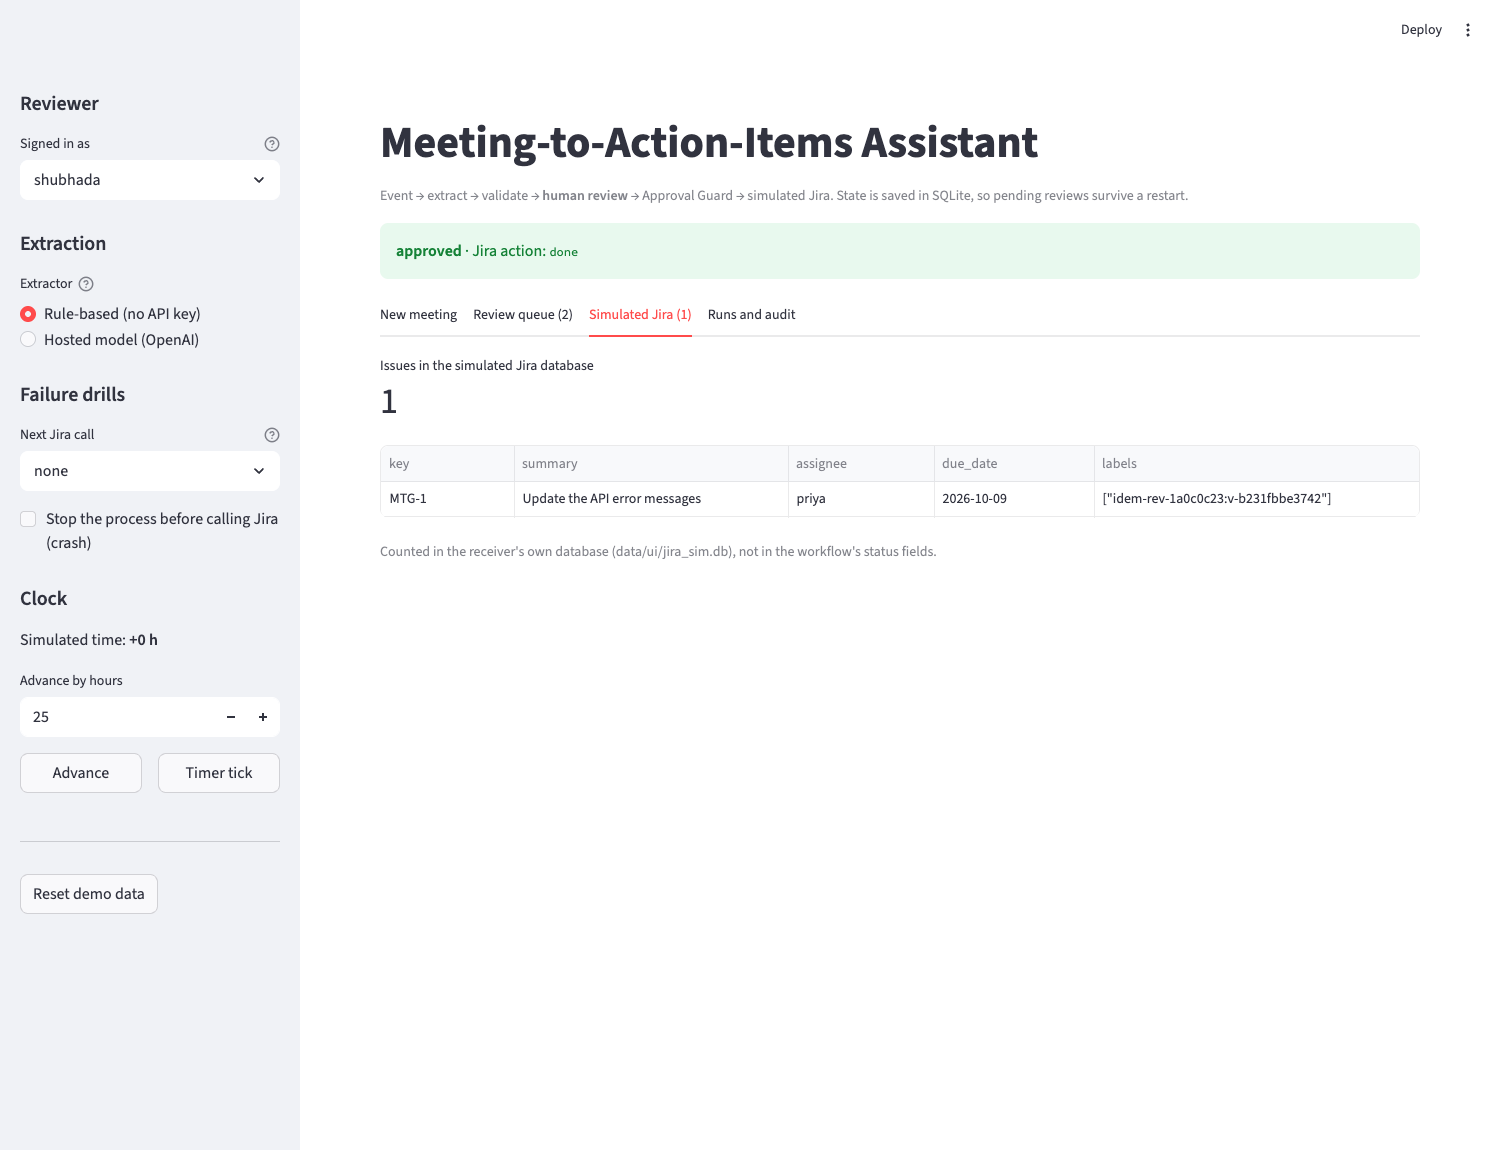
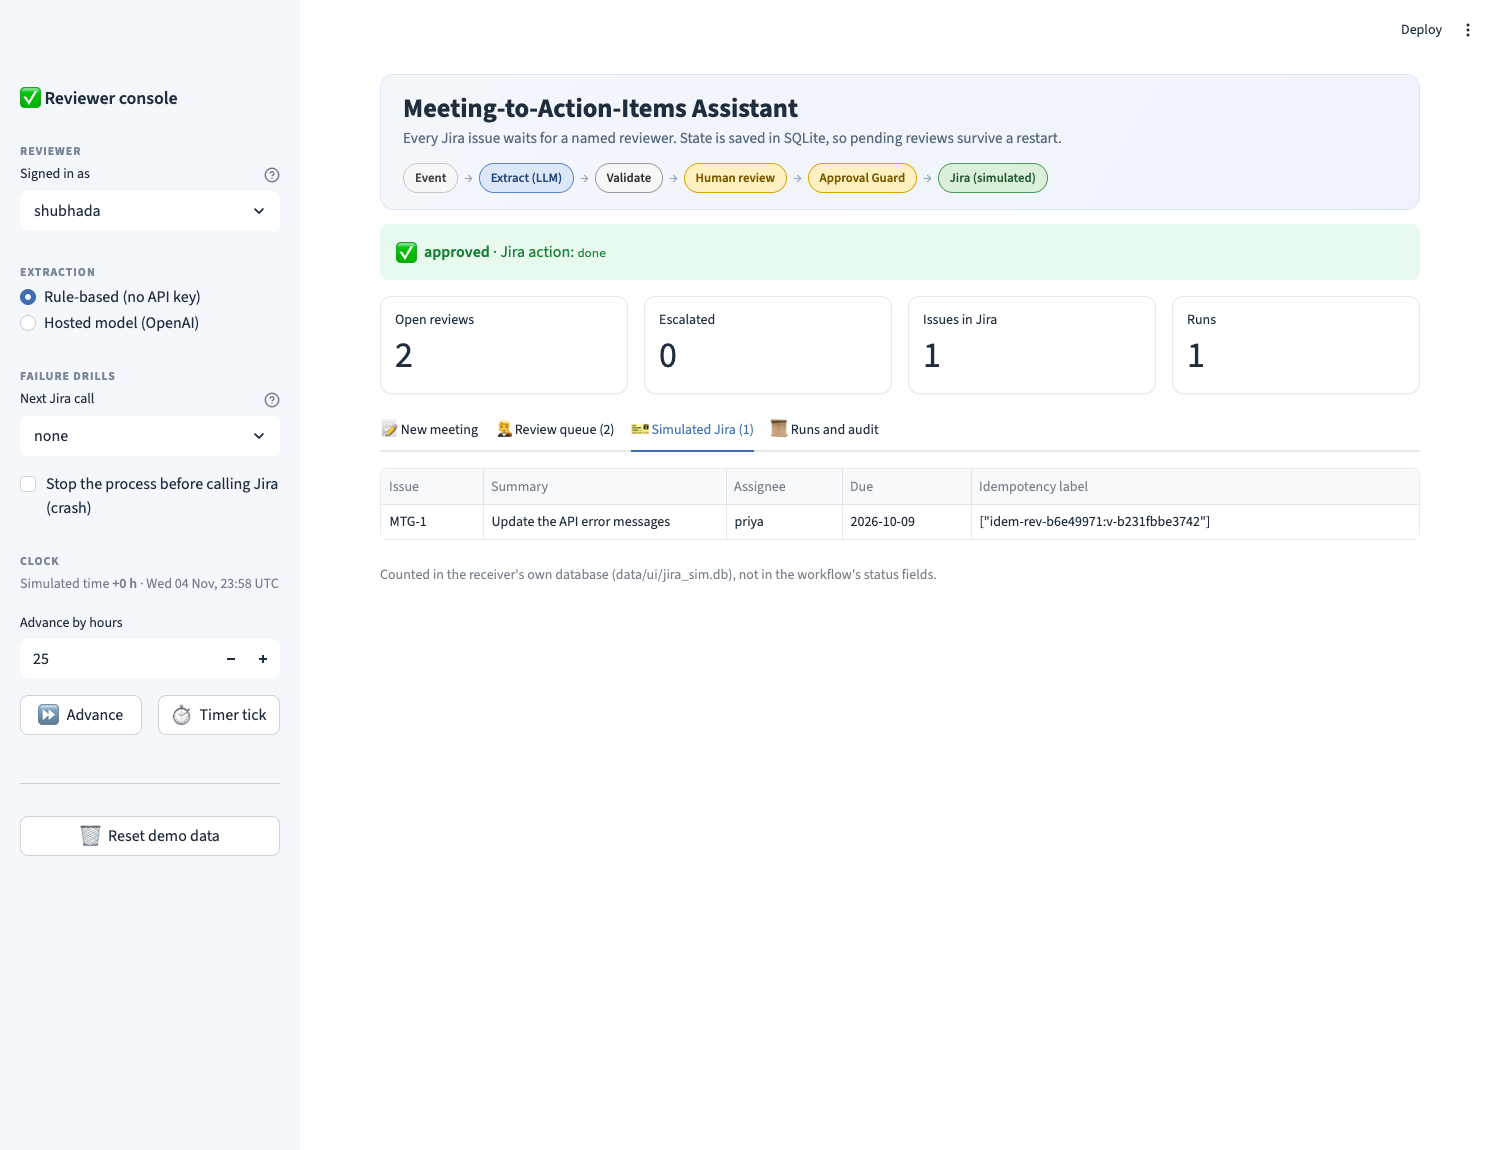
Restyle the reviewer app
Theme in .streamlit/config.toml with the architecture diagram's colours;
pipeline header, summary metrics, review cards with PASS/FLAG and status
pills, a field grid, quoted evidence and a separate decision panel.
Behaviour is unchanged; all 40 tests pass. Screenshots refreshed.

diff --git a/app.py b/app.py
@@ -9,6 +9,7 @@ Each page load calls resume(), as a restarted service would.
 """
 from __future__ import annotations
 
+import html
 import os
 import shutil
 import uuid
@@ -27,13 +28,55 @@ load_dotenv()
 DATA_DIR = Path(os.getenv("MEETING_APP_DATA", "data/ui"))
 SAMPLE = ("Priya will update the API error messages by Friday. Someone should clean up the onboarding notes soon. "
           "Marco will review the release checklist on Monday.")
+PEOPLE = sorted(DIRECTORY)
+
+# Colours match the architecture diagram: people/approval amber, AI blue, code grey, Jira green.
+CSS = """
+<style>
+.block-container {padding-top: 3.6rem; max-width: 1250px;}
+.hero {background: linear-gradient(120deg, #F4F7FC 0%, #EEF3FB 100%); border: 1px solid #DCE6F5;
+       border-radius: 14px; padding: 18px 22px 16px; margin-bottom: 14px;}
+.hero h1 {font-size: 1.65rem; margin: 0 0 2px; color: #1F2D3D; padding: 0;}
+.hero p {margin: 0 0 12px; color: #5A6B80; font-size: 0.95rem;}
+.flow {display: flex; flex-wrap: wrap; gap: 6px; align-items: center;}
+.step {padding: 4px 11px; border-radius: 999px; font-size: 0.8rem; font-weight: 600; border: 1px solid;}
+.arrow {color: #9AA7B8; font-size: 0.85rem;}
+.s-event {background:#F7F7F7; border-color:#C9C9C9; color:#444;}
+.s-ai {background:#DCE8FA; border-color:#5B84C4; color:#24467A;}
+.s-code {background:#F7F7F7; border-color:#999; color:#333;}
+.s-human {background:#FFF0C2; border-color:#D9A400; color:#7A5B00;}
+.s-jira {background:#DCEFDC; border-color:#4C9A5B; color:#245C31;}
+.pill {display:inline-block; padding: 2px 10px; border-radius: 999px; font-size: 0.75rem; font-weight: 700;
+       letter-spacing: .02em; margin-right: 6px; vertical-align: middle;}
+.p-pass {background:#E3F4E5; color:#1E6B2E;} .p-flag {background:#FDEBD3; color:#8A4B00;}
+.p-pending {background:#E7EEF9; color:#2F5590;} .p-escalated {background:#FDE2E1; color:#9B2C2C;}
+.card-title {font-size: 1.12rem; font-weight: 700; color:#1F2D3D; margin: 0 0 8px;}
+.grid {display: grid; grid-template-columns: repeat(3, minmax(0, 1fr)); gap: 8px; margin: 10px 0;}
+.field {background:#F8FAFD; border:1px solid #E3E9F2; border-radius: 9px; padding: 7px 10px;}
+.field .k {font-size: 0.7rem; text-transform: uppercase; letter-spacing: .05em; color:#7A8799;}
+.field .v {font-size: 0.9rem; font-weight: 600; color:#1F2D3D; font-family: ui-monospace, Menlo, monospace;
+           overflow-wrap: anywhere;}
+.field .v.missing {color:#B54708;}
+.quote {border-left: 3px solid #5B84C4; background:#F4F7FC; padding: 8px 12px; border-radius: 0 8px 8px 0;
+        color:#2B3A4D; font-style: italic; margin-bottom: 10px;}
+.conflict {background:#FFF6E5; border:1px solid #F5D08A; color:#7A4E00; border-radius: 8px; padding: 7px 11px;
+           font-size: 0.88rem; margin-bottom: 10px;}
+.rules {font-size: 0.83rem; color:#4A5A6E; margin: 0; padding-left: 1.1rem;}
+.meta {font-size: 0.86rem; color:#4A5A6E; line-height: 1.7; margin-bottom: 4px;}
+.side-h {font-size: 0.74rem; text-transform: uppercase; letter-spacing: .08em; color:#7A8799; font-weight: 700;
+         margin: 16px 0 2px;}
+div[data-testid="stMetric"] {background:#FFFFFF; border:1px solid #E3E9F2; border-radius: 12px; padding: 10px 14px;
+                             box-shadow: 0 1px 2px rgba(31,45,61,.05);}
+</style>
+"""
 
 st.set_page_config(page_title="Meeting-to-Action-Items Assistant", page_icon="✅", layout="wide")
+st.markdown(CSS, unsafe_allow_html=True)
 ss = st.session_state
 ss.setdefault("clock_offset_h", 0)
+ss.setdefault("messages", [])
 if ss.pop("drill_used", False):  # a fault or crash applies to one event only
     ss["fault_choice"], ss["crash"] = "none", False
-ss.setdefault("messages", [])
 
 
 def workflow(fault: str | None = None) -> Workflow:
@@ -63,67 +106,104 @@ def show_result(result: dict) -> None:
     text = f"**{outcome}**" + (f" — {result['detail']}" if result.get("detail") else "")
     if actions:
         text += "  ·  Jira action: " + ", ".join(f"`{status}`" for status in actions.values())
-    good = outcome in ("run_created", "approved", "rejected", "tick")
-    (st.success if good else st.warning)(text)
+    if outcome in ("run_created", "approved", "rejected", "tick"):
+        st.success(text, icon="✅")
+    else:
+        st.warning(text, icon="⚠")
+
+
+def pill(text: str) -> str:
+    return f'<span class="pill p-{text.lower()}">{html.escape(text)}</span>'
+
+
+def field(label: str, value: str | None) -> str:
+    shown = html.escape(value) if value else "UNRESOLVED"
+    return (f'<div class="field"><div class="k">{label}</div>'
+            f'<div class="v{"" if value else " missing"}">{shown}</div></div>')
+
+
+def side_heading(text: str) -> None:
+    st.markdown(f'<div class="side-h">{text}</div>', unsafe_allow_html=True)
 
 
 # Every page load is a process start: finish or reconcile actions left open.
 recovered = workflow().resume()
 if recovered:
-    st.toast(f"Restart recovery finished {len(recovered)} open action(s): {', '.join(recovered.values())}")
-
-st.title("Meeting-to-Action-Items Assistant")
-st.caption("Event → extract → validate → **human review** → Approval Guard → simulated Jira. "
-           "State is saved in SQLite, so pending reviews survive a restart.")
+    st.toast(f"Restart recovery finished {len(recovered)} open action(s): {', '.join(recovered.values())}", icon="🔁")
 
 # ------------------------------------------------------------------ sidebar
 with st.sidebar:
-    st.header("Reviewer")
-    reviewer = st.selectbox("Signed in as", sorted(DIRECTORY), index=sorted(DIRECTORY).index("shubhada"), key="reviewer",
-                            help=f"Organizer reviews first; {PROJECT_LEAD} (project lead) may decide after escalation.")
-    st.header("Extraction")
+    st.markdown("### ✅ Reviewer console")
+    side_heading("Reviewer")
+    reviewer = st.selectbox("Signed in as", PEOPLE, index=PEOPLE.index("shubhada"), key="reviewer",
+                            help=f"The organizer reviews first; {PROJECT_LEAD} (project lead) may decide after escalation.")
+    side_heading("Extraction")
     st.radio("Extractor", ["Rule-based (no API key)", "Hosted model (OpenAI)"], key="extractor",
-             disabled=not os.getenv("OPENAI_API_KEY"), help="The hosted option needs OPENAI_API_KEY in .env.")
+             disabled=not os.getenv("OPENAI_API_KEY"), help="The hosted option needs OPENAI_API_KEY in .env.",
+             label_visibility="collapsed")
 
-    st.header("Failure drills")
+    side_heading("Failure drills")
     st.selectbox("Next Jira call", ["none", "unavailable", "lose_confirmation"], key="fault_choice",
                  help="unavailable = 503, nothing created. lose_confirmation = issue created, reply lost.")
     st.checkbox("Stop the process before calling Jira (crash)", key="crash")
 
-    st.header("Clock")
-    st.write(f"Simulated time: **+{ss['clock_offset_h']} h**")
+    side_heading("Clock")
+    now = datetime.now(timezone.utc) + timedelta(hours=ss["clock_offset_h"])
+    st.caption(f"Simulated time **+{ss['clock_offset_h']} h** · {now:%a %d %b, %H:%M} UTC")
     hours = st.number_input("Advance by hours", min_value=1, max_value=200, value=25, step=1)
     c1, c2 = st.columns(2)
-    if c1.button("Advance", width="stretch"):
+    if c1.button("Advance", icon="⏩", width="stretch"):
         ss["clock_offset_h"] += int(hours)
         st.rerun()
-    if c2.button("Timer tick", key="tick", width="stretch"):
+    if c2.button("Timer tick", key="tick", icon="⏱", width="stretch"):
         send({"event_id": f"tick-{uuid.uuid4().hex[:10]}", "type": "timer.tick", "payload": {}})
         st.rerun()
 
     st.divider()
-    if st.button("Reset demo data", type="secondary"):
+    if st.button("Reset demo data", icon="🗑", type="secondary", width="stretch"):
         shutil.rmtree(DATA_DIR, ignore_errors=True)
         for key in ("clock_offset_h", "messages", "last_transcript_event"):
             ss.pop(key, None)
         st.rerun()
 
+# ------------------------------------------------------------------ header
+st.markdown("""
+<div class="hero">
+  <h1>Meeting-to-Action-Items Assistant</h1>
+  <p>Every Jira issue waits for a named reviewer. State is saved in SQLite, so pending reviews survive a restart.</p>
+  <div class="flow">
+    <span class="step s-event">Event</span><span class="arrow">→</span>
+    <span class="step s-ai">Extract (LLM)</span><span class="arrow">→</span>
+    <span class="step s-code">Validate</span><span class="arrow">→</span>
+    <span class="step s-human">Human review</span><span class="arrow">→</span>
+    <span class="step s-human">Approval Guard</span><span class="arrow">→</span>
+    <span class="step s-jira">Jira (simulated)</span>
+  </div>
+</div>""", unsafe_allow_html=True)
+
 if ss["messages"]:
     show_result(ss["messages"][-1])
 
 wf = workflow()
-tab_new, tab_queue, tab_jira, tab_runs = st.tabs(["New meeting", f"Review queue ({len(wf.open_reviews())})",
-                                                  f"Simulated Jira ({wf.jira.count()})", "Runs and audit"])
+open_reviews = wf.open_reviews()
+m1, m2, m3, m4 = st.columns(4)
+m1.metric("Open reviews", len(open_reviews))
+m2.metric("Escalated", sum(r["status"] == "escalated" for r in open_reviews))
+m3.metric("Issues in Jira", wf.jira.count())
+m4.metric("Runs", wf.store.one("SELECT COUNT(*) AS n FROM runs")["n"])
+
+tab_new, tab_queue, tab_jira, tab_runs = st.tabs(["📝 New meeting", f"🧑⚖ Review queue ({len(open_reviews)})",
+                                                  f"🎫 Simulated Jira ({wf.jira.count()})", "📜 Runs and audit"])
 
 # ------------------------------------------------------------- new meeting
 with tab_new:
-    with st.form("new_meeting"):
+    with st.form("new_meeting", border=True):
         c1, c2, c3 = st.columns(3)
         meeting_id = c1.text_input("Meeting ID", value="sprint-2026-10-08")
         meeting_date = c2.date_input("Meeting date", value=date(2026, 10, 8))
-        organizer = c3.selectbox("Organizer (reviewer)", sorted(DIRECTORY), index=sorted(DIRECTORY).index("shubhada"))
-        transcript = st.text_area("Transcript", value=SAMPLE, height=140)
-        submitted = st.form_submit_button("Send transcript event", type="primary")
+        organizer = c3.selectbox("Organizer (reviewer)", PEOPLE, index=PEOPLE.index("shubhada"))
+        transcript = st.text_area("Transcript", value=SAMPLE, height=130)
+        submitted = st.form_submit_button("Send transcript event", type="primary", icon="📨")
     if submitted:
         event = {"event_id": f"evt-{uuid.uuid4().hex[:10]}", "type": "transcript.received",
                  "payload": {"meeting_id": meeting_id, "meeting_date": meeting_date.isoformat(),
@@ -132,42 +212,47 @@ with tab_new:
         send(event)
         st.rerun()
     if ss.get("last_transcript_event"):
-        st.caption(f"Last event: `{ss['last_transcript_event']['event_id']}`")
-        if st.button("Deliver the same event again (webhook retry)", key="redeliver"):
+        c1, c2 = st.columns([3, 2], vertical_alignment="center")
+        c1.caption(f"Last event sent: `{ss['last_transcript_event']['event_id']}`. "
+                   "A webhook may deliver it twice; the inbox ignores the repeat.")
+        if c2.button("Deliver the same event again (webhook retry)", key="redeliver", icon="🔁", width="stretch"):
             send(ss["last_transcript_event"])
             st.rerun()
 
 # ------------------------------------------------------------ review queue
 with tab_queue:
-    reviews = wf.open_reviews()
-    if not reviews:
-        st.info("No open reviews. Send a transcript event first.")
-    for review in reviews:
+    if not open_reviews:
+        st.info("No open reviews. Send a transcript event from **New meeting**.", icon="📭")
+    for review in open_reviews:
         p = review["packet_json"]
         fields = p["proposed_action"]["fields"]
         with st.container(border=True):
-            badge = "🟢 PASS" if p["validation"] == "PASS" else "🟠 FLAG"
-            st.markdown(f"#### {fields['summary']}  ·  {badge}  ·  `{review['status']}`")
-            left, right = st.columns([3, 2])
+            left, right = st.columns([3, 2], gap="large")
             with left:
-                st.markdown(f"**Proposed action:** `{p['proposed_action']['action']}` in project "
-                            f"`{p['proposed_action']['target']['project']}`")
-                st.markdown(f"**Assignee:** `{fields['assignee'] or 'UNRESOLVED'}`  ·  "
-                            f"**Due date:** `{fields['due_date'] or 'UNRESOLVED'}`")
-                st.markdown(f"**Evidence:** “{p['evidence']['quote']}”")
-                if p["conflicts"]:
-                    st.warning("Conflicts: " + "; ".join(p["conflicts"]))
-                st.markdown("**Rules:**\n" + "\n".join(f"- {rule}" for rule in p["rules"]))
+                st.markdown(
+                    f'<div class="card-title">{html.escape(fields["summary"])}</div>'
+                    + pill(p["validation"]) + pill(review["status"])
+                    + '<div class="grid">' + field("Action", p["proposed_action"]["action"])
+                    + field("Assignee", fields["assignee"]) + field("Due date", fields["due_date"]) + "</div>"
+                    + f'<div class="quote">“{html.escape(p["evidence"]["quote"])}”</div>'
+                    + ('<div class="conflict">⚠ ' + html.escape("; ".join(p["conflicts"])) + "</div>" if p["conflicts"] else "")
+                    + '<ul class="rules">' + "".join(f"<li>{html.escape(r)}</li>" for r in p["rules"]) + "</ul>",
+                    unsafe_allow_html=True)
             with right:
-                st.markdown(f"**Assigned to:** {review['assigned_to']}  \n**Escalates to:** {review['escalation_to']}  \n"
-                            f"**Deadline:** {review['deadline']}  \n**Content version:** `{p['content_version']}`")
-                with st.form(f"decide-{review['review_id']}"):
-                    owner = st.text_input("Owner", value=fields["assignee"] or "")
-                    due = st.text_input("Due date (e.g. Friday or 2026-10-16)", value=fields["due_date"] or "")
+                st.markdown(
+                    f'<div class="meta">👤 <b>Assigned to</b> {html.escape(review["assigned_to"])} · '
+                    f'escalates to {html.escape(review["escalation_to"])}<br>'
+                    f'⏰ <b>Deadline</b> {html.escape(review["deadline"])}<br>'
+                    f'🔒 <b>Content version</b> <code>{html.escape(p["content_version"])}</code></div>',
+                    unsafe_allow_html=True)
+                with st.form(f"decide-{review['review_id']}", border=False):
+                    c1, c2 = st.columns(2)
+                    owner = c1.text_input("Owner", value=fields["assignee"] or "", placeholder="e.g. tejas")
+                    due = c2.text_input("Due date", value=fields["due_date"] or "", placeholder="Friday or 2026-10-16")
                     comment = st.text_input("Comment (optional)")
                     b1, b2 = st.columns(2)
-                    approve = b1.form_submit_button("Approve", type="primary", width="stretch")
-                    reject = b2.form_submit_button("Reject", width="stretch")
+                    approve = b1.form_submit_button("Approve", type="primary", icon="✔", width="stretch")
+                    reject = b2.form_submit_button("Reject", icon="✖", width="stretch")
                 if approve or reject:
                     edits = {k: v.strip() for k, v, old in (("owner", owner, fields["assignee"]), ("due_date", due, fields["due_date"]))
                              if v.strip() and v.strip() != (old or "")}
@@ -182,19 +267,23 @@ with tab_queue:
 # ------------------------------------------------------------ simulated jira
 with tab_jira:
     issues = wf.jira.issues()
-    st.metric("Issues in the simulated Jira database", len(issues))
-    if issues:
+    if not issues:
+        st.info("No issues yet. An issue is created only after a reviewer approves it.", icon="🎫")
+    else:
         st.dataframe([{k: i[k] for k in ("key", "summary", "assignee", "due_date", "labels")} for i in issues],
-                     width="stretch", hide_index=True)
+                     width="stretch", hide_index=True,
+                     column_config={"key": "Issue", "summary": "Summary", "assignee": "Assignee", "due_date": "Due",
+                                    "labels": st.column_config.TextColumn("Idempotency label", width="large")})
     st.caption("Counted in the receiver's own database (data/ui/jira_sim.db), not in the workflow's status fields.")
 
 # ----------------------------------------------------------- runs and audit
 with tab_runs:
     runs = wf.store.all("SELECT run_id, meeting_id, status, updated_at FROM runs ORDER BY updated_at DESC")
     if not runs:
-        st.info("No runs yet.")
+        st.info("No runs yet.", icon="📜")
+    icons = {"completed": "🟢", "completed_with_items_needing_review": "🟠", "awaiting_review": "🔵", "failed": "🔴"}
     for run in runs:
-        with st.expander(f"{run['run_id']} · {run['meeting_id']} · {run['status']}"):
+        with st.expander(f"{icons.get(run['status'], '⚪')} {run['run_id']} · {run['meeting_id']} · {run['status']}"):
             st.markdown("**Reviews**")
             st.dataframe(wf.store.all("SELECT review_id, status, assigned_to, deadline FROM reviews WHERE run_id = ?",
                                       run["run_id"]), width="stretch", hide_index=True)
@@ -207,6 +296,6 @@ with tab_runs:
             st.markdown("**Audit trail**")
             st.dataframe([{k: e.get(k) for k in ("timestamp", "step", "event", "candidate_id", "result", "reason", "error")}
                           for e in events], width="stretch", hide_index=True)
-    with st.expander("Event inbox (every event_id and its outcome)"):
+    with st.expander("📥 Event inbox (every event_id and its outcome)"):
         st.dataframe(wf.store.all("SELECT event_id, type, received_at, outcome FROM inbox ORDER BY received_at DESC"),
                      width="stretch", hide_index=True)
